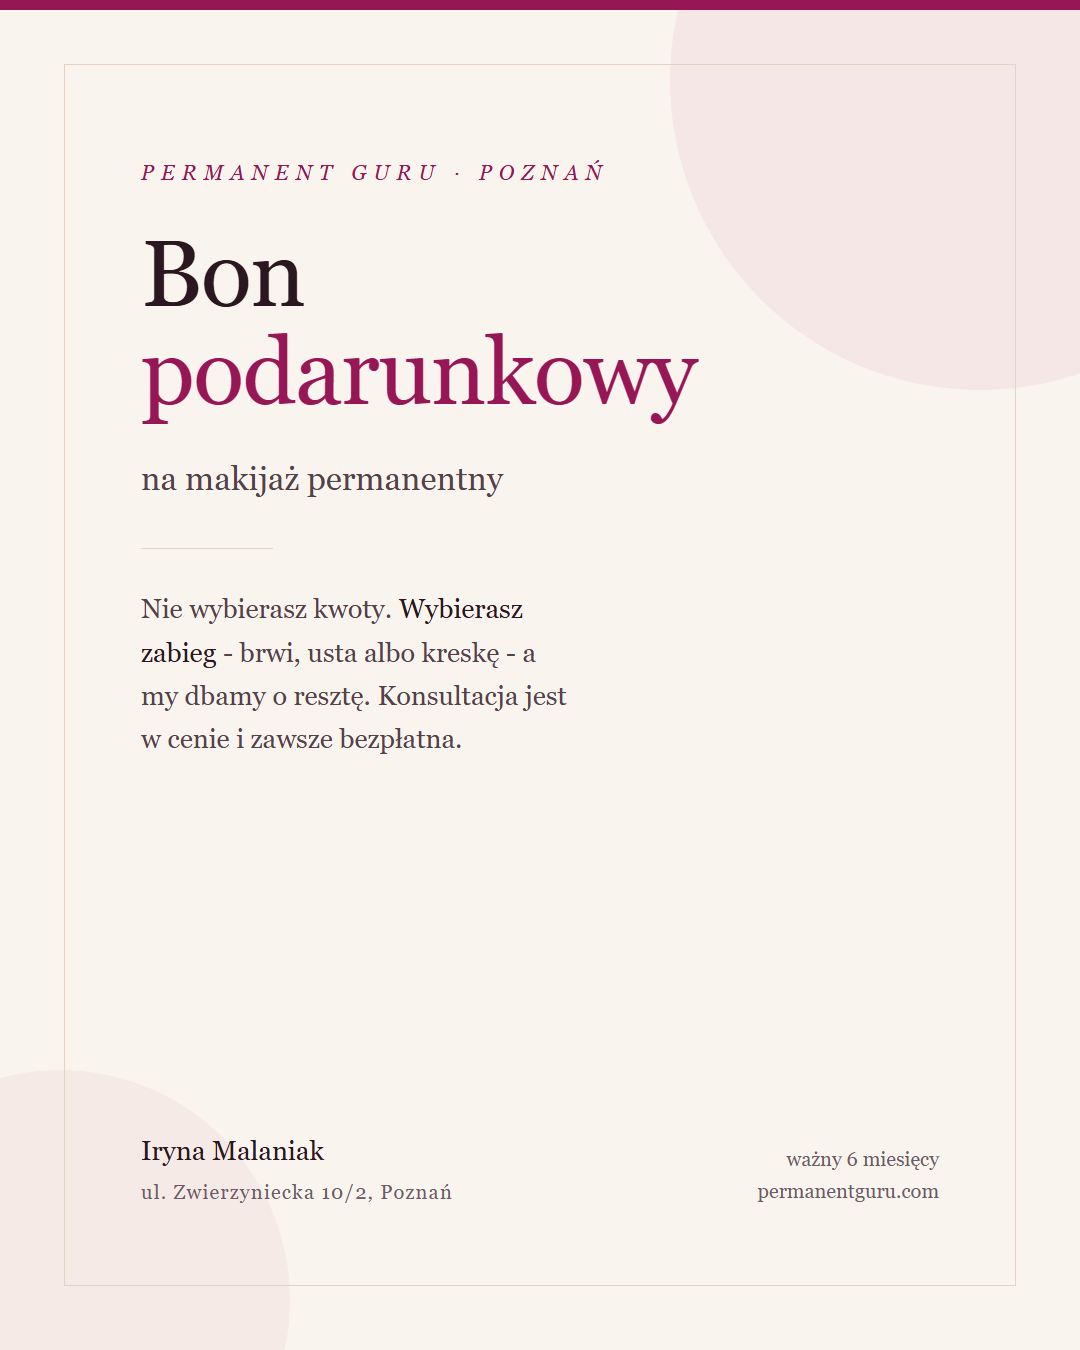
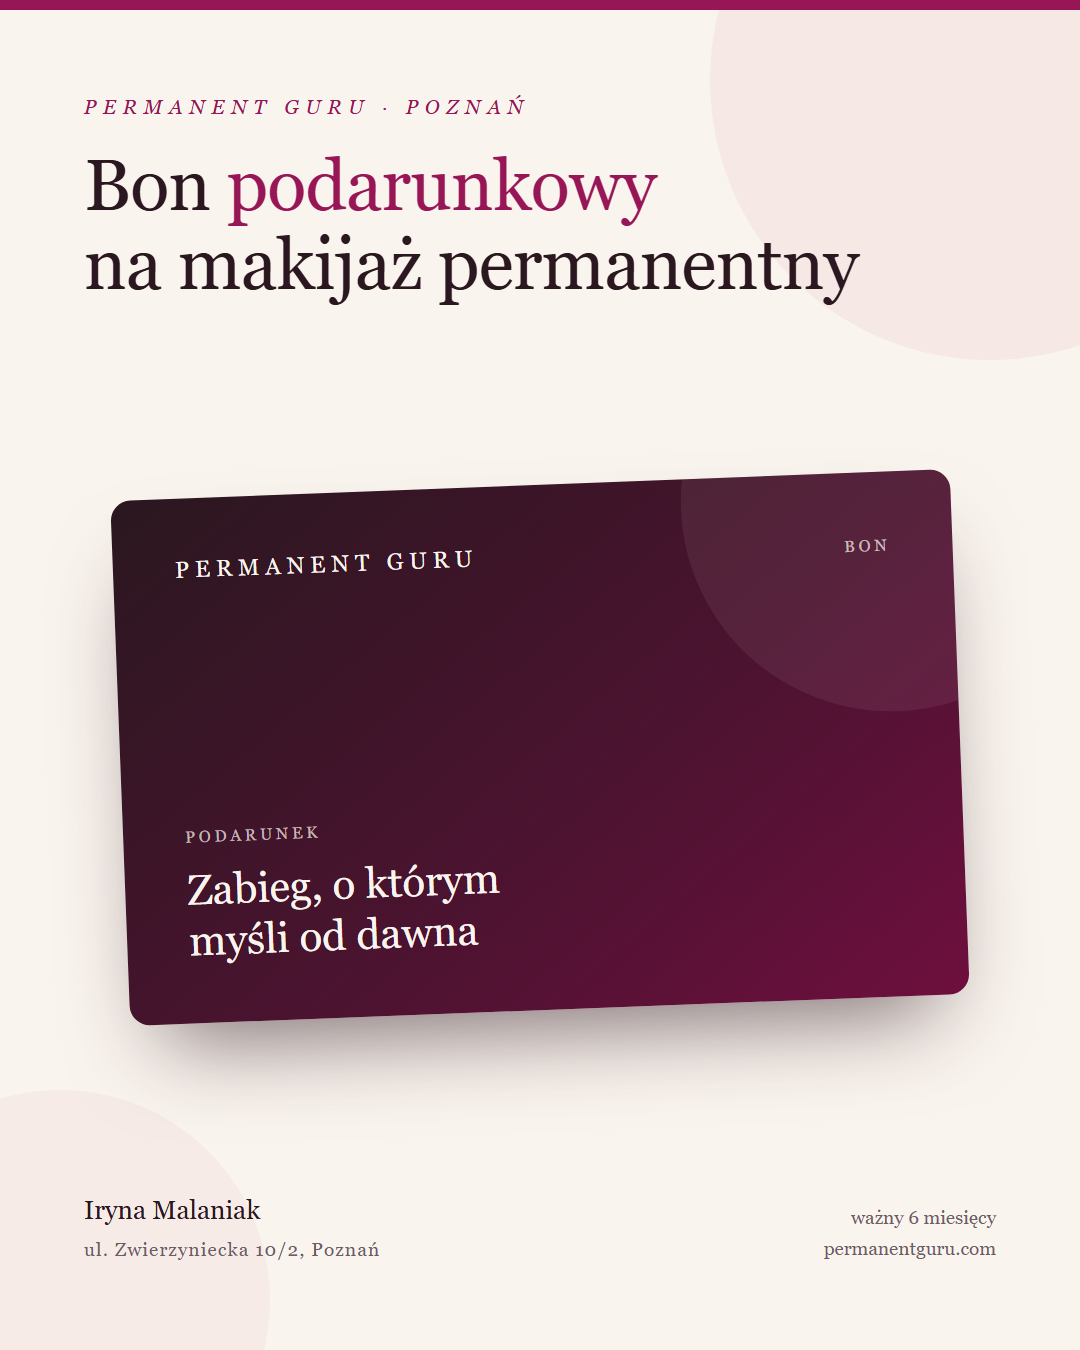
Present the voucher as a card, and add the gift section
Following the massage-4-you reference: a two-column section with the
voucher shown as an object beside the copy and a single CTA.

The point of the brief is that a present has to look like a thing you
can hand over, not like a bank transfer - so the voucher is now a card
with gradient, radius and real shadow, built in CSS rather than shipped
as a picture. That keeps the text selectable and crisp at any size, and
costs no image weight. Black-and-gold from the reference is that
studio's palette, so this uses ours: ink through to magenta-deep.

Card text is cream at varying alpha throughout. --magenta-soft measures
3.29:1 against the lighter end of the gradient and could not be used,
and the site's global p rule pushed the headline to --ink-soft at
1.80:1 until the colour was pinned.

The section runs on the homepage above the contact form, and replaces
the flat portrait that opened /bon-podarunkowy. The Instagram artwork
is rebuilt around the same card, tilted with weight under it, so the
post and the page show the same object.

diff --git a/src/design/bon-podarunkowy.html b/src/design/bon-podarunkowy.html
@@ -4,7 +4,6 @@
 <meta charset="utf-8">
 <style>
   * { margin: 0; padding: 0; box-sizing: border-box; }
-
   html, body { width: 1080px; height: 1350px; }
 
   body {
@@ -13,27 +12,22 @@
     color: #2A171F;
     position: relative;
     overflow: hidden;
-  }
-
-  /* soft blooms, echoing the site's background flowers */
-  .bloom { position: absolute; border-radius: 50%; background: #971756; }
-  .b1 { width: 620px; height: 620px; top: -230px; right: -210px; opacity: 0.055; }
-  .b2 { width: 460px; height: 460px; bottom: -180px; left: -170px; opacity: 0.045; }
-
-  .rule-top { position: absolute; top: 0; left: 0; right: 0; height: 10px; background: #971756; }
-
-  .frame {
-    position: absolute;
-    top: 64px; right: 64px; bottom: 64px; left: 64px;
-    border: 1px solid #E5D2C4;
     display: flex;
     flex-direction: column;
     justify-content: space-between;
-    padding: 96px 76px 78px;
+    padding: 96px 84px 86px;
   }
 
+  .bloom { position: absolute; border-radius: 50%; background: #971756; }
+  .b1 { width: 560px; height: 560px; top: -200px; right: -190px; opacity: 0.05; }
+  .b2 { width: 420px; height: 420px; bottom: -160px; left: -150px; opacity: 0.04; }
+
+  .rule-top { position: absolute; top: 0; left: 0; right: 0; height: 10px; background: #971756; }
+
+  header, .closing { position: relative; z-index: 2; }
+
   .eyebrow {
-    font-size: 21px;
+    font-size: 20px;
     letter-spacing: 0.34em;
     text-transform: uppercase;
     color: #971756;
@@ -41,40 +35,55 @@
   }
 
   h1 {
-    font-size: 94px;
+    font-size: 72px;
     font-weight: 400;
-    line-height: 1.04;
-    letter-spacing: -0.015em;
-    margin-top: 40px;
+    line-height: 1.1;
+    margin-top: 28px;
+    letter-spacing: -0.01em;
   }
 
   h1 em { font-style: normal; color: #971756; }
 
-  .sub {
-    font-size: 33px;
-    color: #54414A;
-    line-height: 1.45;
-    margin-top: 34px;
-    max-width: 19ch;
+  /* the voucher, presented as an object with weight rather than a flat panel */
+  .stage { position: relative; z-index: 2; display: flex; justify-content: center; }
+
+  .card {
+    width: 840px;
+    aspect-ratio: 8 / 5;
+    border-radius: 20px;
+    background: linear-gradient(142deg, #2A171F 0%, #4C1330 58%, #6E0F3E 100%);
+    color: #FAF4EE;
+    padding: 58px 62px;
+    display: flex;
+    flex-direction: column;
+    justify-content: space-between;
+    box-shadow: 0 48px 90px -34px rgba(42, 23, 31, 0.62);
+    position: relative;
+    overflow: hidden;
+    transform: rotate(-2.2deg);
   }
 
-  .divider { width: 132px; height: 1px; background: #E5D2C4; margin: 46px 0 38px; }
-
-  .lead {
-    font-size: 27px;
-    line-height: 1.6;
-    color: #54414A;
-    max-width: 26ch;
+  .card::after {
+    content: "";
+    position: absolute;
+    width: 420px; height: 420px;
+    right: -150px; top: -180px;
+    border-radius: 50%;
+    background: #FAF4EE;
+    opacity: 0.07;
   }
 
-  .lead strong { color: #2A171F; font-weight: 400; }
+  .vc-top { display: flex; justify-content: space-between; align-items: baseline; position: relative; z-index: 1; }
+  .vc-brand { font-size: 23px; letter-spacing: 0.26em; text-transform: uppercase; }
+  .vc-tag, .vc-label { font-size: 16px; letter-spacing: 0.24em; text-transform: uppercase; color: rgba(250,244,238,0.72); }
+  .vc-bottom { position: relative; z-index: 1; }
+  .vc-label { display: block; margin-bottom: 18px; }
+  .vc-line { font-size: 42px; line-height: 1.2; color: #FAF4EE; }
 
-  .foot { display: flex; justify-content: space-between; align-items: flex-end; gap: 32px; }
-
-  .studio { font-size: 27px; line-height: 1.5; color: #2A171F; }
-  .studio span { display: block; font-size: 20px; color: #6F5B68; letter-spacing: 0.06em; margin-top: 6px; }
-
-  .terms { font-size: 20px; color: #6F5B68; text-align: right; line-height: 1.6; }
+  .closing { display: flex; justify-content: space-between; align-items: flex-end; gap: 32px; }
+  .studio { font-size: 26px; line-height: 1.5; }
+  .studio span { display: block; font-size: 19px; color: #6F5B68; letter-spacing: 0.06em; margin-top: 6px; }
+  .terms { font-size: 19px; color: #6F5B68; text-align: right; line-height: 1.6; }
 </style>
 </head>
 <body>
@@ -82,27 +91,32 @@
   <div class="bloom b1"></div>
   <div class="bloom b2"></div>
 
-  <div class="frame">
-    <div>
-      <div class="eyebrow">Permanent Guru &middot; Poznań</div>
-      <h1>Bon<br><em>podarunkowy</em></h1>
-      <div class="sub">na makijaż permanentny</div>
-      <div class="divider"></div>
-      <div class="lead">
-        Nie wybierasz kwoty. <strong>Wybierasz zabieg</strong> - brwi, usta albo kreskę - a my dbamy
-        o resztę. Konsultacja jest w cenie i zawsze bezpłatna.
+  <header>
+    <div class="eyebrow">Permanent Guru &middot; Poznań</div>
+    <h1>Bon <em>podarunkowy</em><br>na makijaż permanentny</h1>
+  </header>
+
+  <div class="stage">
+    <div class="card">
+      <div class="vc-top">
+        <span class="vc-brand">Permanent Guru</span>
+        <span class="vc-tag">Bon</span>
+      </div>
+      <div class="vc-bottom">
+        <span class="vc-label">Podarunek</span>
+        <div class="vc-line">Zabieg, o którym<br>myśli od dawna</div>
       </div>
     </div>
+  </div>
 
-    <div class="foot">
-      <div class="studio">
-        Iryna Malaniak
-        <span>ul. Zwierzyniecka 10/2, Poznań</span>
-      </div>
-      <div class="terms">
-        ważny 6 miesięcy<br>
-        permanentguru.com
-      </div>
+  <div class="closing">
+    <div class="studio">
+      Iryna Malaniak
+      <span>ul. Zwierzyniecka 10/2, Poznań</span>
+    </div>
+    <div class="terms">
+      ważny 6 miesięcy<br>
+      permanentguru.com
     </div>
   </div>
 </body>

diff --git a/assets/style.css b/assets/style.css
@@ -2016,3 +2016,111 @@ footer .brand-block p a {
     color: var(--magenta-soft);
     border-bottom-color: var(--magenta-soft);
 }
+
+/* ============ GIFT VOUCHER ============ */
+/* People buy a present they can hand over, so the voucher is built as a card
+   with real depth rather than shown as a flat graphic. Text sits in cream at
+   varying alpha: --magenta-soft measures only 3.29:1 against the lighter end
+   of this gradient and cannot be used here. */
+.voucher-row {
+    display: grid;
+    grid-template-columns: 6fr 5fr;
+    gap: 72px;
+    align-items: center;
+}
+
+.voucher-card {
+    aspect-ratio: 8 / 5;
+    border-radius: 12px;
+    background: linear-gradient(142deg, #2A171F 0%, #4C1330 58%, var(--magenta-deep) 100%);
+    color: var(--cream);
+    padding: 44px 48px;
+    display: flex;
+    flex-direction: column;
+    justify-content: space-between;
+    box-shadow: 0 34px 70px -30px rgba(42, 23, 31, 0.6);
+    position: relative;
+    overflow: hidden;
+}
+
+.voucher-card::after {
+    content: "";
+    position: absolute;
+    width: 340px;
+    height: 340px;
+    right: -120px;
+    top: -140px;
+    border-radius: 50%;
+    background: var(--cream);
+    opacity: 0.07;
+}
+
+.voucher-card .vc-top,
+.voucher-card .vc-bottom {
+    position: relative;
+    z-index: 1;
+}
+
+.voucher-card .vc-top {
+    display: flex;
+    justify-content: space-between;
+    align-items: baseline;
+    gap: 20px;
+}
+
+.vc-brand {
+    font-family: var(--font-display);
+    font-size: 17px;
+    letter-spacing: 0.26em;
+    text-transform: uppercase;
+}
+
+.vc-tag,
+.vc-label {
+    font-family: var(--font-body);
+    font-size: 12px;
+    letter-spacing: 0.24em;
+    text-transform: uppercase;
+    color: rgba(250, 244, 238, 0.72);
+}
+
+.vc-label {
+    display: block;
+    margin-bottom: 14px;
+}
+
+.vc-line {
+    /* the global p rule sets --ink-soft, which measures 1.80:1 on this card */
+    color: var(--cream);
+    margin: 0;
+    font-family: var(--font-display);
+    font-size: clamp(21px, 2.4vw, 31px);
+    line-height: 1.22;
+    font-weight: 400;
+}
+
+.voucher-note {
+    margin-top: 18px;
+    font-size: 14px;
+    color: var(--ink-mute);
+    font-style: italic;
+}
+
+@media (max-width: 900px) {
+    .voucher-row {
+        grid-template-columns: 1fr;
+        gap: 40px;
+    }
+
+    .voucher-card {
+        padding: 34px 32px;
+    }
+}
+
+@media (max-width: 420px) {
+    .voucher-card {
+        aspect-ratio: auto;
+        min-height: 240px;
+        padding: 28px 26px;
+    }
+}

diff --git a/bon-podarunkowy.html b/bon-podarunkowy.html
@@ -228,14 +228,28 @@
             </div>
         </section>
 
-        <!-- ============ WIZUALIZACJA BONU ============ -->
+        <!-- ============ BON JAKO PRZEDMIOT ============ -->
         <section class="section tight">
             <div class="container">
-                <div style="max-width:420px;margin:0 auto">
-                    <img src="images/bon-podarunkowy.webp"
-                        alt="Bon podarunkowy Permanent Guru Poznań na makijaż permanentny - ważny 6 miesięcy"
-                        style="width:100%;height:auto;display:block;border:1px solid var(--line)"
-                        width="1080" height="1350">
+                <div class="voucher-row">
+                    <div class="voucher-card">
+                        <div class="vc-top">
+                            <span class="vc-brand">Permanent Guru</span>
+                            <span class="vc-tag">Bon</span>
+                        </div>
+                        <div class="vc-bottom">
+                            <span class="vc-label">Podarunek</span>
+                            <p class="vc-line">Zabieg, o którym<br>myśli od dawna</p>
+                        </div>
+                    </div>
+                    <div>
+                        <span class="eyebrow">Jak wygląda bon</span>
+                        <h2 style="margin:18px 0 20px">Rzecz, którą można <em>wręczyć</em></h2>
+                        <p>Bon dostajesz jako kartę, nie jako potwierdzenie przelewu. Możesz odebrać go
+                            w studiu albo poprosić o wersję elektroniczną, jeśli prezent ma dotrzeć na
+                            odległość.</p>
+                        <p class="voucher-note">Na bonie wpisujemy wybrany zabieg i datę ważności.</p>
+                    </div>
                 </div>
             </div>
         </section>

diff --git a/index.html b/index.html
@@ -342,6 +342,32 @@
             </div>
         </section>
 
+        <!-- ============ BON PODARUNKOWY ============ -->
+        <section class="section">
+            <div class="container">
+                <div class="voucher-row">
+                    <div class="voucher-card">
+                        <div class="vc-top">
+                            <span class="vc-brand">Permanent Guru</span>
+                            <span class="vc-tag">Bon</span>
+                        </div>
+                        <div class="vc-bottom">
+                            <span class="vc-label">Podarunek</span>
+                            <p class="vc-line">Zabieg, o którym<br>myśli od dawna</p>
+                        </div>
+                    </div>
+                    <div>
+                        <span class="eyebrow">Bon podarunkowy</span>
+                        <h2 style="margin:18px 0 20px">Podaruj coś, co <em>zostaje na dłużej</em></h2>
+                        <p>Bon podarunkowy Permanent Guru to gotowy pomysł na prezent. Nie wybierasz kwoty -
+                            wybierasz zabieg, a resztą zajmę się ja. Ważny 6 miesięcy, konsultacja zawsze
+                            bezpłatna.</p>
+                        <p style="margin-top:28px"><a href="/bon-podarunkowy" class="btn btn-primary">Zamów bon</a></p>
+                    </div>
+                </div>
+            </div>
+        </section>
+
         <!-- ============ CONTACT FORM ============ -->
         <section class="section contact-form-section" id="formularz" style="background: var(--cream-deep);">
             <div class="container">
